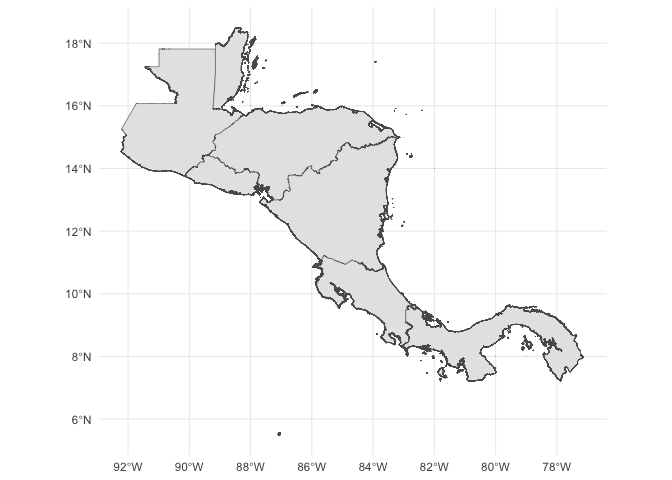
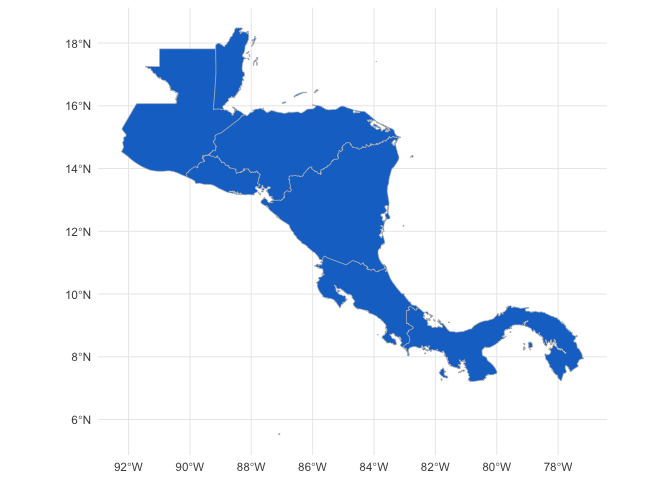
changes in readme

diff --git a/README.md b/README.md
@@ -34,7 +34,7 @@ library(stars)
 
 ``` r
 ggplot(ca_outline) +
-  geom_sf(fill = "steelblue", color = "gray") +
+  geom_sf(fill = "dodgerblue3", color = "gray") +
   theme_minimal()
 ```
 
